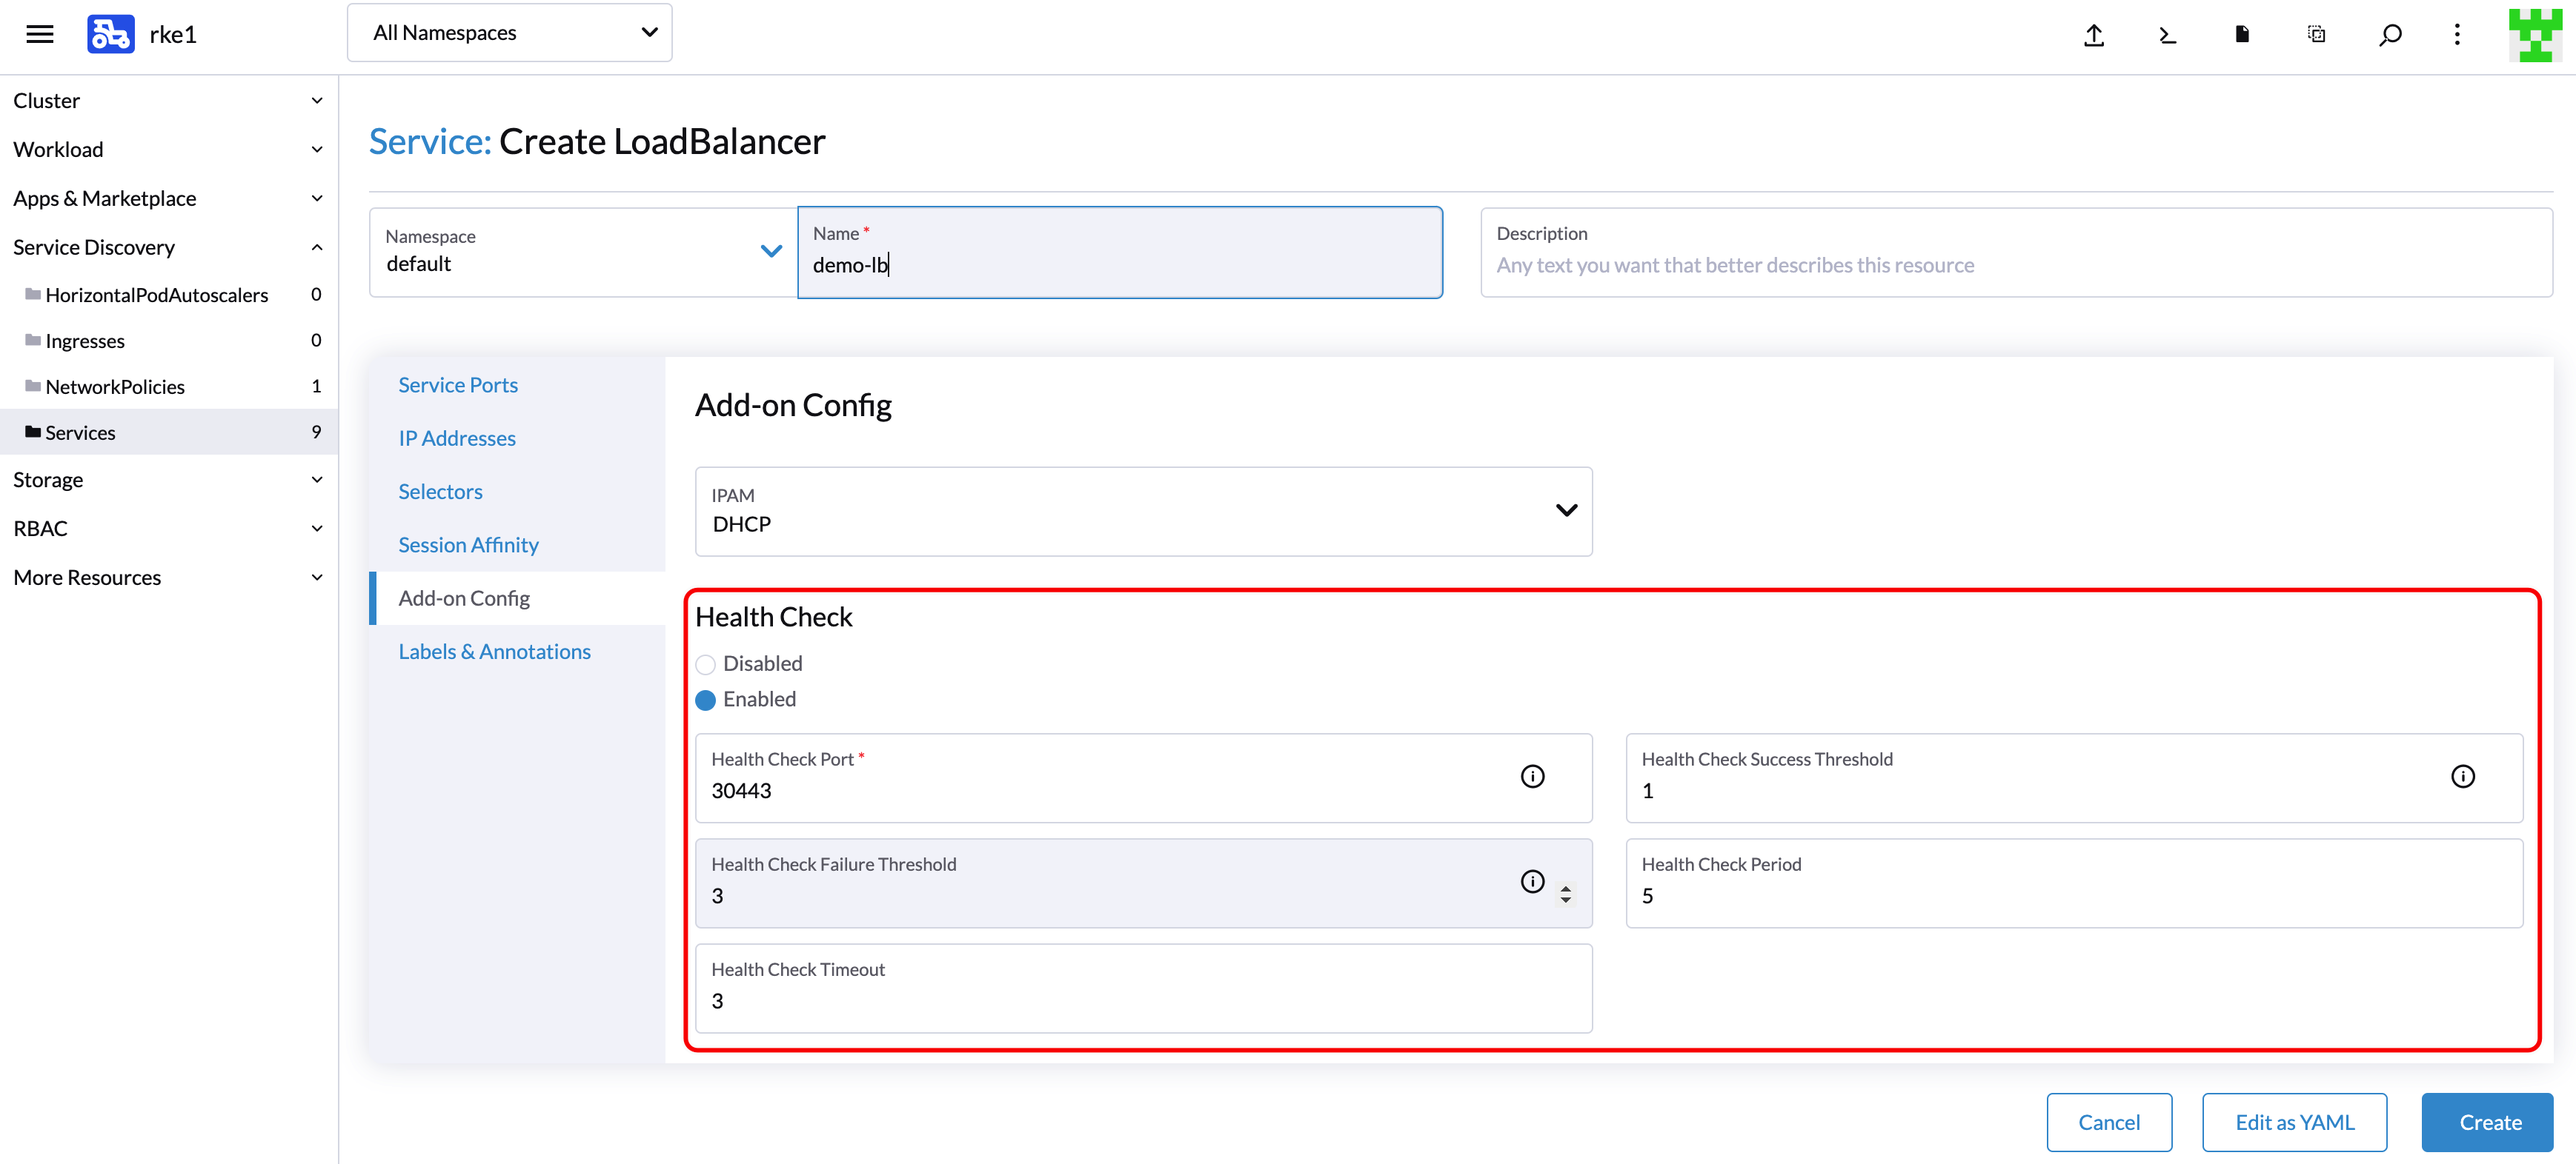
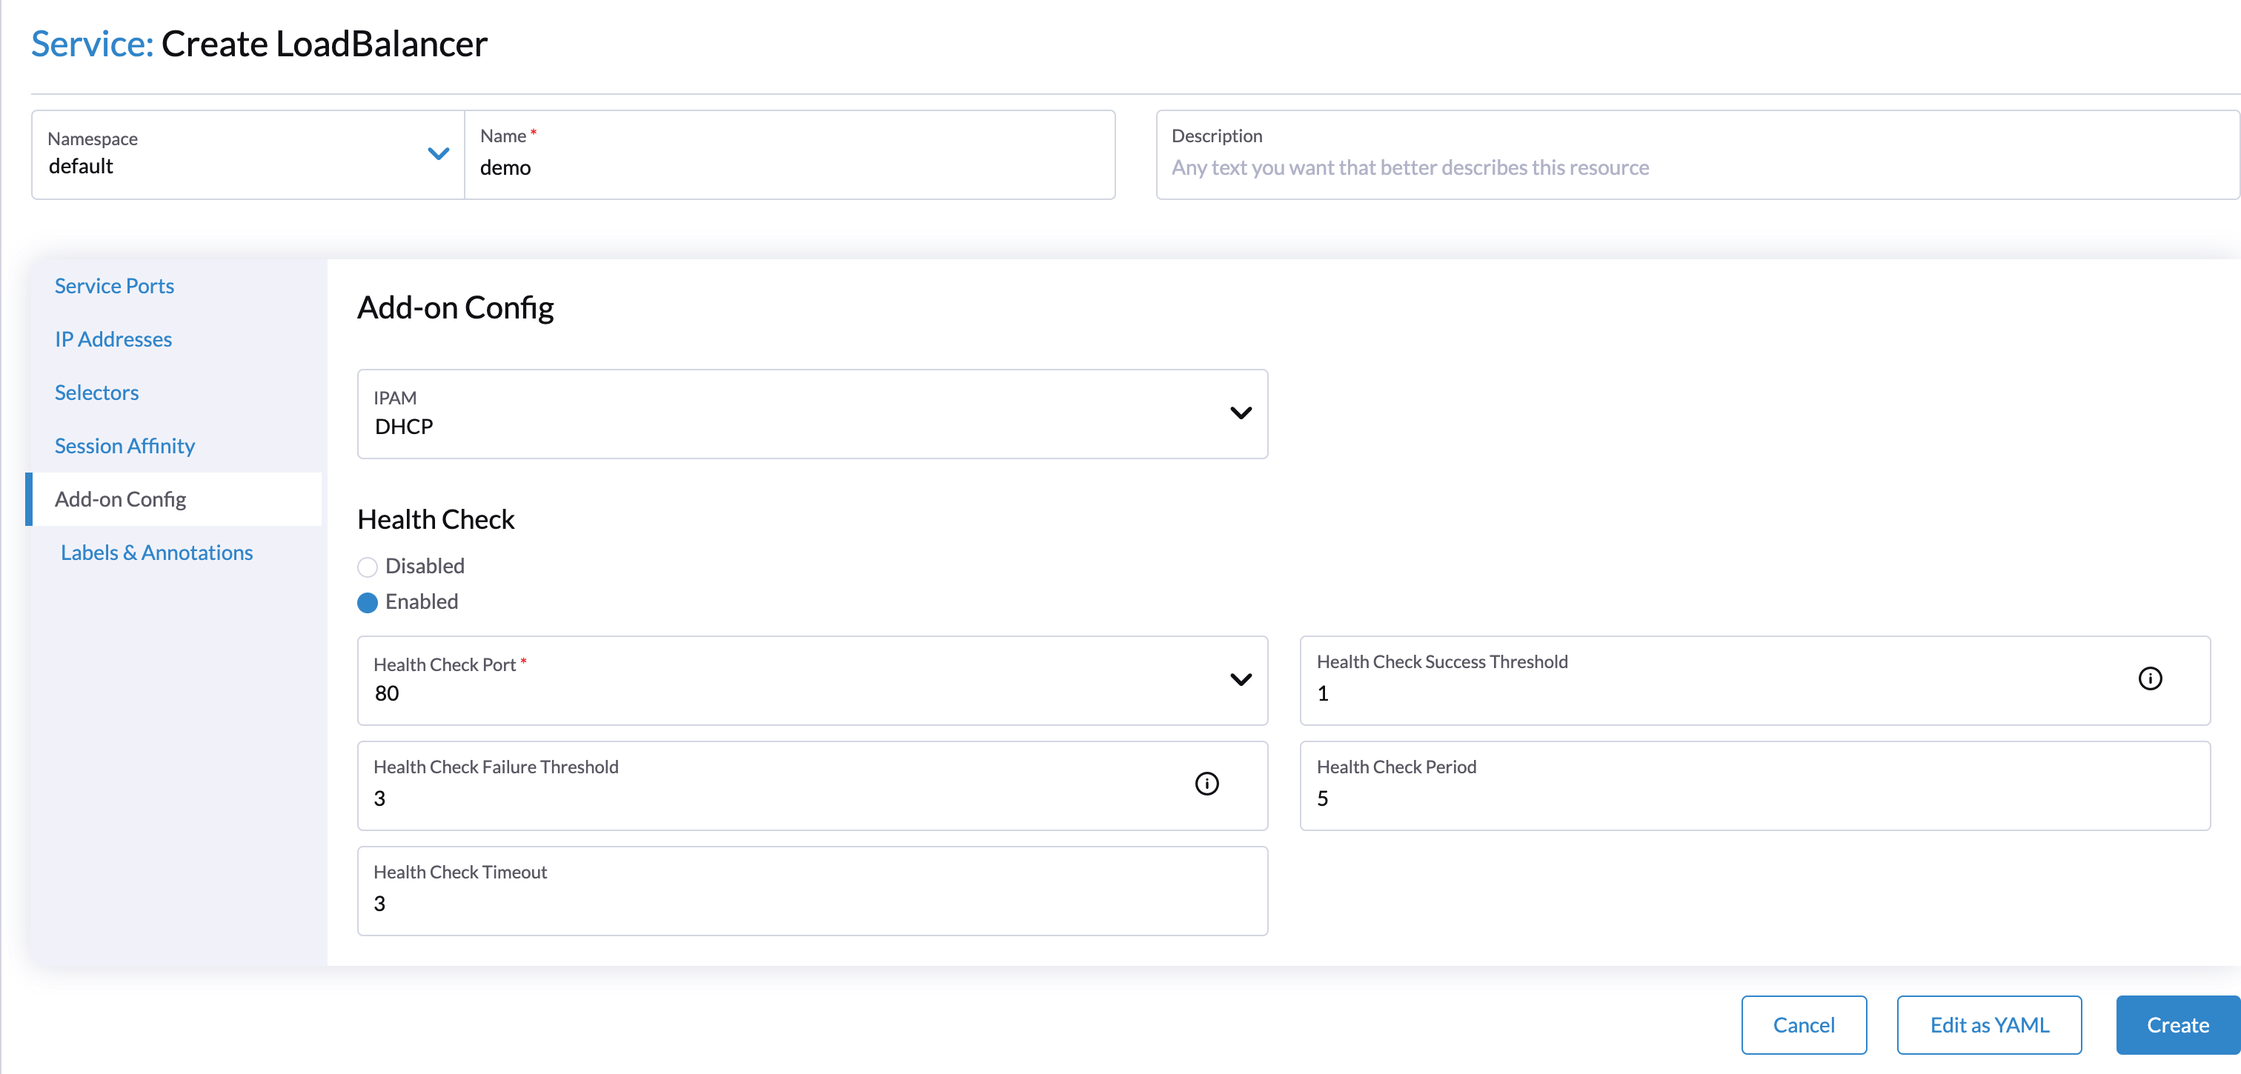
Update harvester cloud provider document

diff --git a/docs/rancher/cloud-provider.md b/docs/rancher/cloud-provider.md
@@ -75,9 +75,10 @@ When spinning up an RKE2 cluster using the Harvester node driver, select the `Ha
 After deploying the `Harvester Cloud provider`, you can use the Kubernetes `LoadBalancer` service to expose a microservice inside the guest cluster to the external world. When you create a Kubernetes `LoadBalancer` service, a Harvester load balancer is assigned to the service and you can edit it through the `Add-on Config` in the Rancher UI.
 
   ![](assets/lb-svc.png)
+  
 
 ### IPAM
-Harvester's built-in load balancer supports both `pool` and `dhcp` modes. You can select the mode in the Rancher UI. Harvester adds the annotation `cloudprovider.harvesterhci.io/healthcheck-port` to the service behind.
+Harvester's built-in load balancer supports both `pool` and `dhcp` modes. You can select the mode in the Rancher UI. Harvester adds the annotation `cloudprovider.harvesterhci.io/ipam` to the service behind.
 
 - pool: You should configure an IP address pool in Harvester in advance. The Harvester LoadBalancer controller will allocate an IP address from the IP address pool for the load balancer.
   
@@ -93,7 +94,7 @@ The Harvester load balancer supports TCP health checks. You can specify the para
 
   ![](assets/health-check.png)
 
-Alternatively, you can speficy the parameters by adding annotations to the service manually. The following annotations are supported:
+Alternatively, you can specify the parameters by adding annotations to the service manually. The following annotations are supported:
 
 | Annotation Key | Value Type | Required | Description |
 |:---|:---|:---|:---|
@@ -102,7 +103,4 @@ Alternatively, you can speficy the parameters by adding annotations to the servi
 | `cloudprovider.harvesterhci.io/healthcheck-failure-threshold` | string | false | Specifies the health check failure threshold. The default value is 3. The backend server will stop forwarding traffic if the number of health check failures reaches the threshold.
 | `cloudprovider.harvesterhci.io/healthcheck-periodseconds` | string | false |  Specifies the health check period. The default value is 5 seconds.
 | `cloudprovider.harvesterhci.io/healthcheck-timeoutseconds` | string | false | Specifies the timeout of every health check. The default value is 3 seconds.
-
-!!!note
-    Currently, the health check port needs to be a `nodeport`. There's [a feature request](https://github.com/harvester/harvester/issues/1697) to change it to a service port and which will be implemented in a future release.
     
